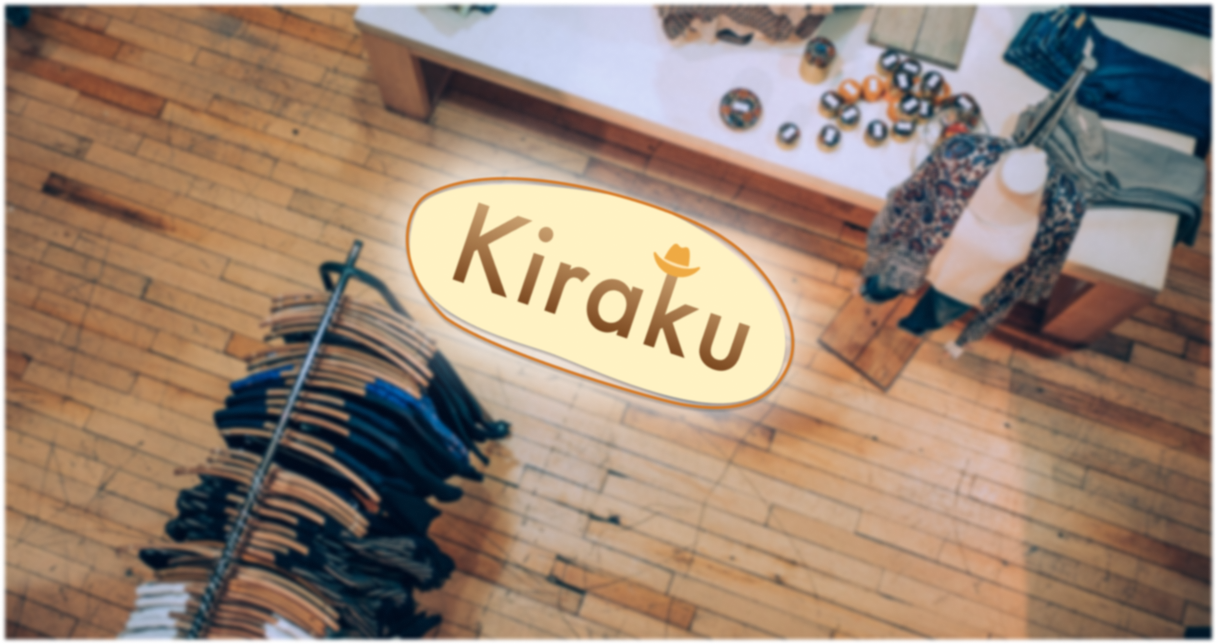
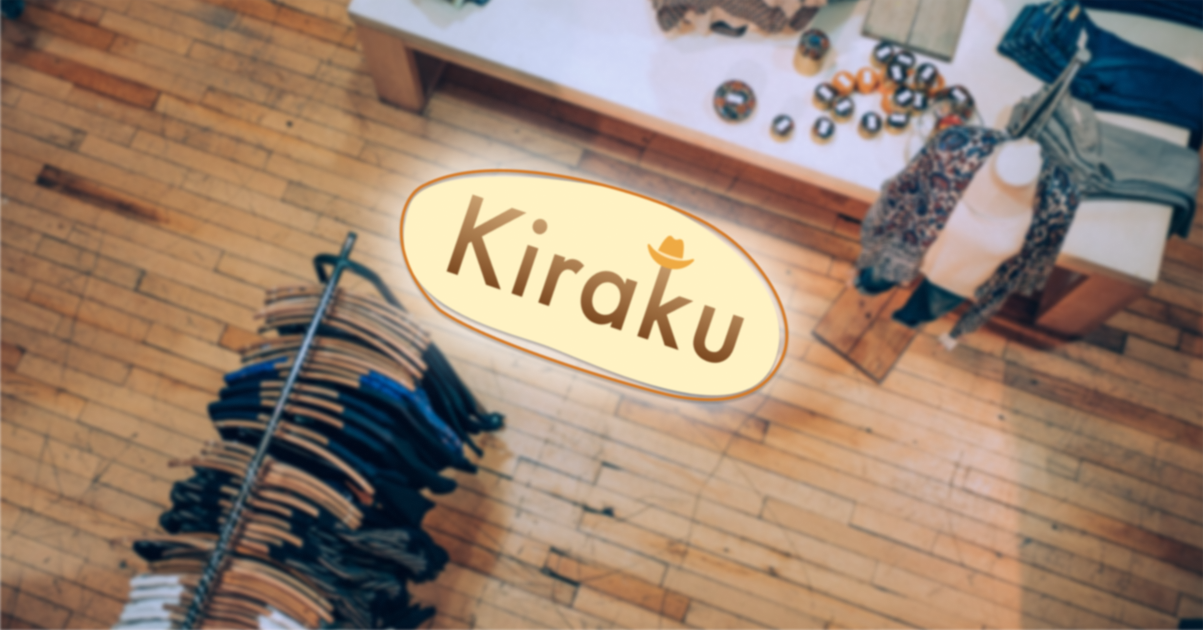
💄 change hero image for about page

diff --git a/src/pages/[userId]/posts/[postId]/index.tsx b/src/pages/[userId]/posts/[postId]/index.tsx
@@ -1,8 +1,7 @@
 import { gql } from '@apollo/client'
-import { Box, Button, Center, Flex, Heading, HStack, Tag, Text, Textarea } from '@chakra-ui/react'
+import { Box, Button, Center, Flex, Heading, HStack, Tag, Text } from '@chakra-ui/react'
 import type { GetStaticPaths, GetStaticProps, NextPage } from 'next'
 import Image from 'next/image'
-import { useState } from 'react'
 
 import { addApolloState, initializeApollo } from '@/apollo/client'
 import type {
@@ -14,10 +13,10 @@ import type {
 } from '@/apollo/graphql'
 import { GetAllUsersWithPostsDocument, GetOneUserWithPostDocument } from '@/apollo/graphql'
 import { CommentIconWithCount, LikeButtonWithCount } from '@/components/common/container'
-import { NormalButton } from '@/components/common/unit'
 import { LayoutWithHead } from '@/components/layout/container'
 import { CommentList } from '@/components/user/container'
-import { UserIcon } from '@/components/user/unit'
+import { CommentForm, UserIcon } from '@/components/user/unit'
+import { useConvertDateFromHasura } from '@/utils/methods/customeHooks'
 
 type Props = {
   user: Users
@@ -26,12 +25,12 @@ type Props = {
 const dummyComments = [
   {
     userIcon: '/nouser.svg',
-    userId: 'hogehoge',
+    userId: 'hogeh123oge',
     comment: 'すごくいいですね',
   },
   {
     userIcon: '/nouser.svg',
-    userId: 'hugagaga',
+    userId: 'hu234agaga',
     comment: 'めっちゃやべえな',
   },
   {
@@ -42,14 +41,8 @@ const dummyComments = [
   },
 ]
 const UserPostPage: NextPage<Props> = (props: Props) => {
-  const [comment, setComment] = useState('')
   const [user, post] = [props.user, props.user.posts[0]]
-
-  console.log(comment)
-
-  const handleCommentChange = (e: React.ChangeEvent<HTMLTextAreaElement>) => {
-    setComment(e.target.value)
-  }
+  const createdAt = useConvertDateFromHasura(post.created_at)
 
   return (
     <LayoutWithHead title={`${props.user.name}のポスト「${props.user.posts[0].content}」`} sideMenu>
@@ -136,7 +129,7 @@ const UserPostPage: NextPage<Props> = (props: Props) => {
                 </Box>
               )}
             </Box>
-            <Box w="37vw" ml="70px">
+            <Box w="37vw" ml="50px">
               {/* Content */}
               <Box
                 p="30px"
@@ -144,13 +137,11 @@ const UserPostPage: NextPage<Props> = (props: Props) => {
                 boxShadow="0px 0px 5px rgba(40,40,40,0.15)"
                 mb="50px"
               >
-                <Text fontSize="18px" color="gray.700">
-                  {post.content}ああああああああああああああああああああ
-                  ああああああああああああああああああああああああああああ
-                  あああああああああああああああああ
+                <Text fontSize="18px" color="gray.700" whiteSpace="pre-wrap">
+                  {post.content}
                 </Text>
                 <Box w="100%" mt="70px" textAlign="right">
-                  <Text color="gray.500">{post.created_at}</Text>
+                  <Text color="gray.500">{createdAt}</Text>
                 </Box>
               </Box>
               {/* Comment */}
@@ -160,26 +151,7 @@ const UserPostPage: NextPage<Props> = (props: Props) => {
                 </Heading>
                 <CommentList comments={dummyComments} />
               </Box>
-              <Box>
-                <Textarea
-                  placeholder="コメントを書く"
-                  borderColor="gray.400"
-                  h="150px"
-                  onChange={(e) => {
-                    handleCommentChange(e)
-                  }}
-                />
-                <Box textAlign="right">
-                  <NormalButton
-                    text="送信"
-                    bg="green.300"
-                    color="white"
-                    borderRadius="none"
-                    hover={{ bg: 'green.400' }}
-                    width="100px"
-                  />
-                </Box>
-              </Box>
+              <CommentForm userId={user.id} />
             </Box>
           </Flex>
         </Box>
@@ -265,11 +237,13 @@ gql`
         created_at
         topics {
           topic {
+            id
             name
           }
         }
         brands {
           brand {
+            id
             name
           }
         }

diff --git a/src/utils/methods/customeHooks.tsx b/src/utils/methods/customeHooks.tsx
@@ -1,7 +1,30 @@
 import { useMediaQuery } from '@chakra-ui/react'
+import { useMemo } from 'react'
 
 // 引数が無い場合画面幅が481px以上ならtrueを返す
 export const useIsDesktop = (media = '480px'): boolean => {
   const [isPC] = useMediaQuery(`(min-width: ${media})`)
   return isPC
+}
+
+// hasura上に保存されている日時を整形して返す
+export const useConvertDateFromHasura = (date: string): string => {
+  return useMemo(() => {
+    const yearN = Number(date.substring(0, 4))
+    const monthN = Number(date.substring(5, 7))
+    const dayN = Number(date.substring(8, 10))
+    const hourN = Number(date.substring(11, 13))
+    const minuteN = Number(date.substring(14, 16))
+
+    const createdAt = new Date(yearN, monthN, dayN, hourN, minuteN)
+    createdAt.setDate(createdAt.getHours() + 7)
+    const [year, month, day, hour, minute] = [
+      createdAt.getFullYear(),
+      createdAt.getMonth(),
+      createdAt.getDay(),
+      createdAt.getHours(),
+      createdAt.getMinutes(),
+    ]
+    return `${year}年${month}月${day}日 ${hour}時${minute}分`
+  }, [date])
 }

diff --git a/src/pages/about/index.tsx b/src/pages/about/index.tsx
@@ -46,7 +46,7 @@ const AboutPage = () => {
         zIndex="0"
         css={css`
           & img {
-            filter: brightness(70%);
+            filter: brightness(85%);
           }
         `}
       >
@@ -71,6 +71,7 @@ const AboutPage = () => {
             color="white"
             fontSize={['12px', '18px']}
             w="max(29vw, 200px)"
+            textShadow="1px 1px 0px #555"
           >
             「Kiraku」は誰でも気楽に使えるファッション共有SNSです。その日の気分で自由に投稿してみましょう。
           </Text>
@@ -92,11 +93,11 @@ const AboutPage = () => {
             </Link>
           </Box>
         </Box>
-        <NextImage src="/hero.webp" alt="ヒーロー画像" imageType="hero" />
+        <NextImage src="/foo.jpg" alt="ヒーロー画像" imageType="hero" />
       </Box>
 
       {/* cards */}
-      <Box bg={['#FFFBF3', 'transparent']}>
+      <Box bg={['#f6f6f6', 'transparent']}>
         <VStack w="100%" overflow="hidden">
           <Heading color="gray.700" my="40px">
             できること

diff --git a/src/components/user/unit/CommentForm.tsx b/src/components/user/unit/CommentForm.tsx
@@ -1,0 +1,47 @@
+import { Box, Textarea } from '@chakra-ui/react'
+import type { VFC } from 'react'
+import { useState } from 'react'
+
+import { NormalButton } from '@/components/common/unit'
+
+type Props = {
+  userId: string
+}
+
+const CommentForm: VFC<Props> = (props: Props) => {
+  const [comment, setComment] = useState('')
+
+  const handleCommentChange = (e: React.ChangeEvent<HTMLTextAreaElement>) => {
+    setComment(e.target.value)
+  }
+
+  console.log(props.userId)
+
+  return (
+    <>
+      <Box>
+        <Textarea
+          placeholder="コメントを書く"
+          borderColor="gray.400"
+          h="150px"
+          onChange={(e) => {
+            handleCommentChange(e)
+          }}
+          value={comment}
+        />
+        <Box textAlign="right">
+          <NormalButton
+            text="送信"
+            bg="green.300"
+            color="white"
+            borderRadius="none"
+            hover={{ bg: 'green.400' }}
+            width="100px"
+          />
+        </Box>
+      </Box>
+    </>
+  )
+}
+
+export { CommentForm }

diff --git a/src/components/about/unit/BackgroundCircle.tsx b/src/components/about/unit/BackgroundCircle.tsx
@@ -14,12 +14,12 @@ const BackgroundCircle: VFC<Props> = (props: Props) => {
   return (
     <Box
       zIndex="-1"
-      w="43vw"
-      h="43vw"
-      bg="#FFFBF3"
+      w="41vw"
+      h="41vw"
+      bg="#f6f6f6"
       borderRadius="50%"
       position="absolute"
-      filter="blur(2px)"
+      filter="blur(4px)"
       {...inputProps}
     ></Box>
   )

diff --git a/src/components/common/unit/NextImage.tsx b/src/components/common/unit/NextImage.tsx
@@ -25,7 +25,7 @@ const NextImage: VFC<NextImageProps> = (props: NextImageProps) => {
             layout="fill"
             priority={true}
             objectFit="cover"
-            objectPosition="55% 27%"
+            objectPosition="55% 30%"
           />
         ) : (
           <Image src={src} alt={alt} objectFit="contain" width={200} height={200} />

diff --git a/src/components/layout/container/Footer.tsx b/src/components/layout/container/Footer.tsx
@@ -3,6 +3,7 @@ import { css } from '@emotion/react'
 import Link from 'next/link'
 import type { VFC } from 'react'
 
+// import { memo } from 'react'
 import { NextImage } from '@/components/common/unit'
 
 const FOOTER_LINK = [

diff --git a/src/components/user/unit/index.ts b/src/components/user/unit/index.ts
@@ -1,1 +1,2 @@
+export { CommentForm } from './CommentForm'
 export { UserIcon } from './UserIcon'
